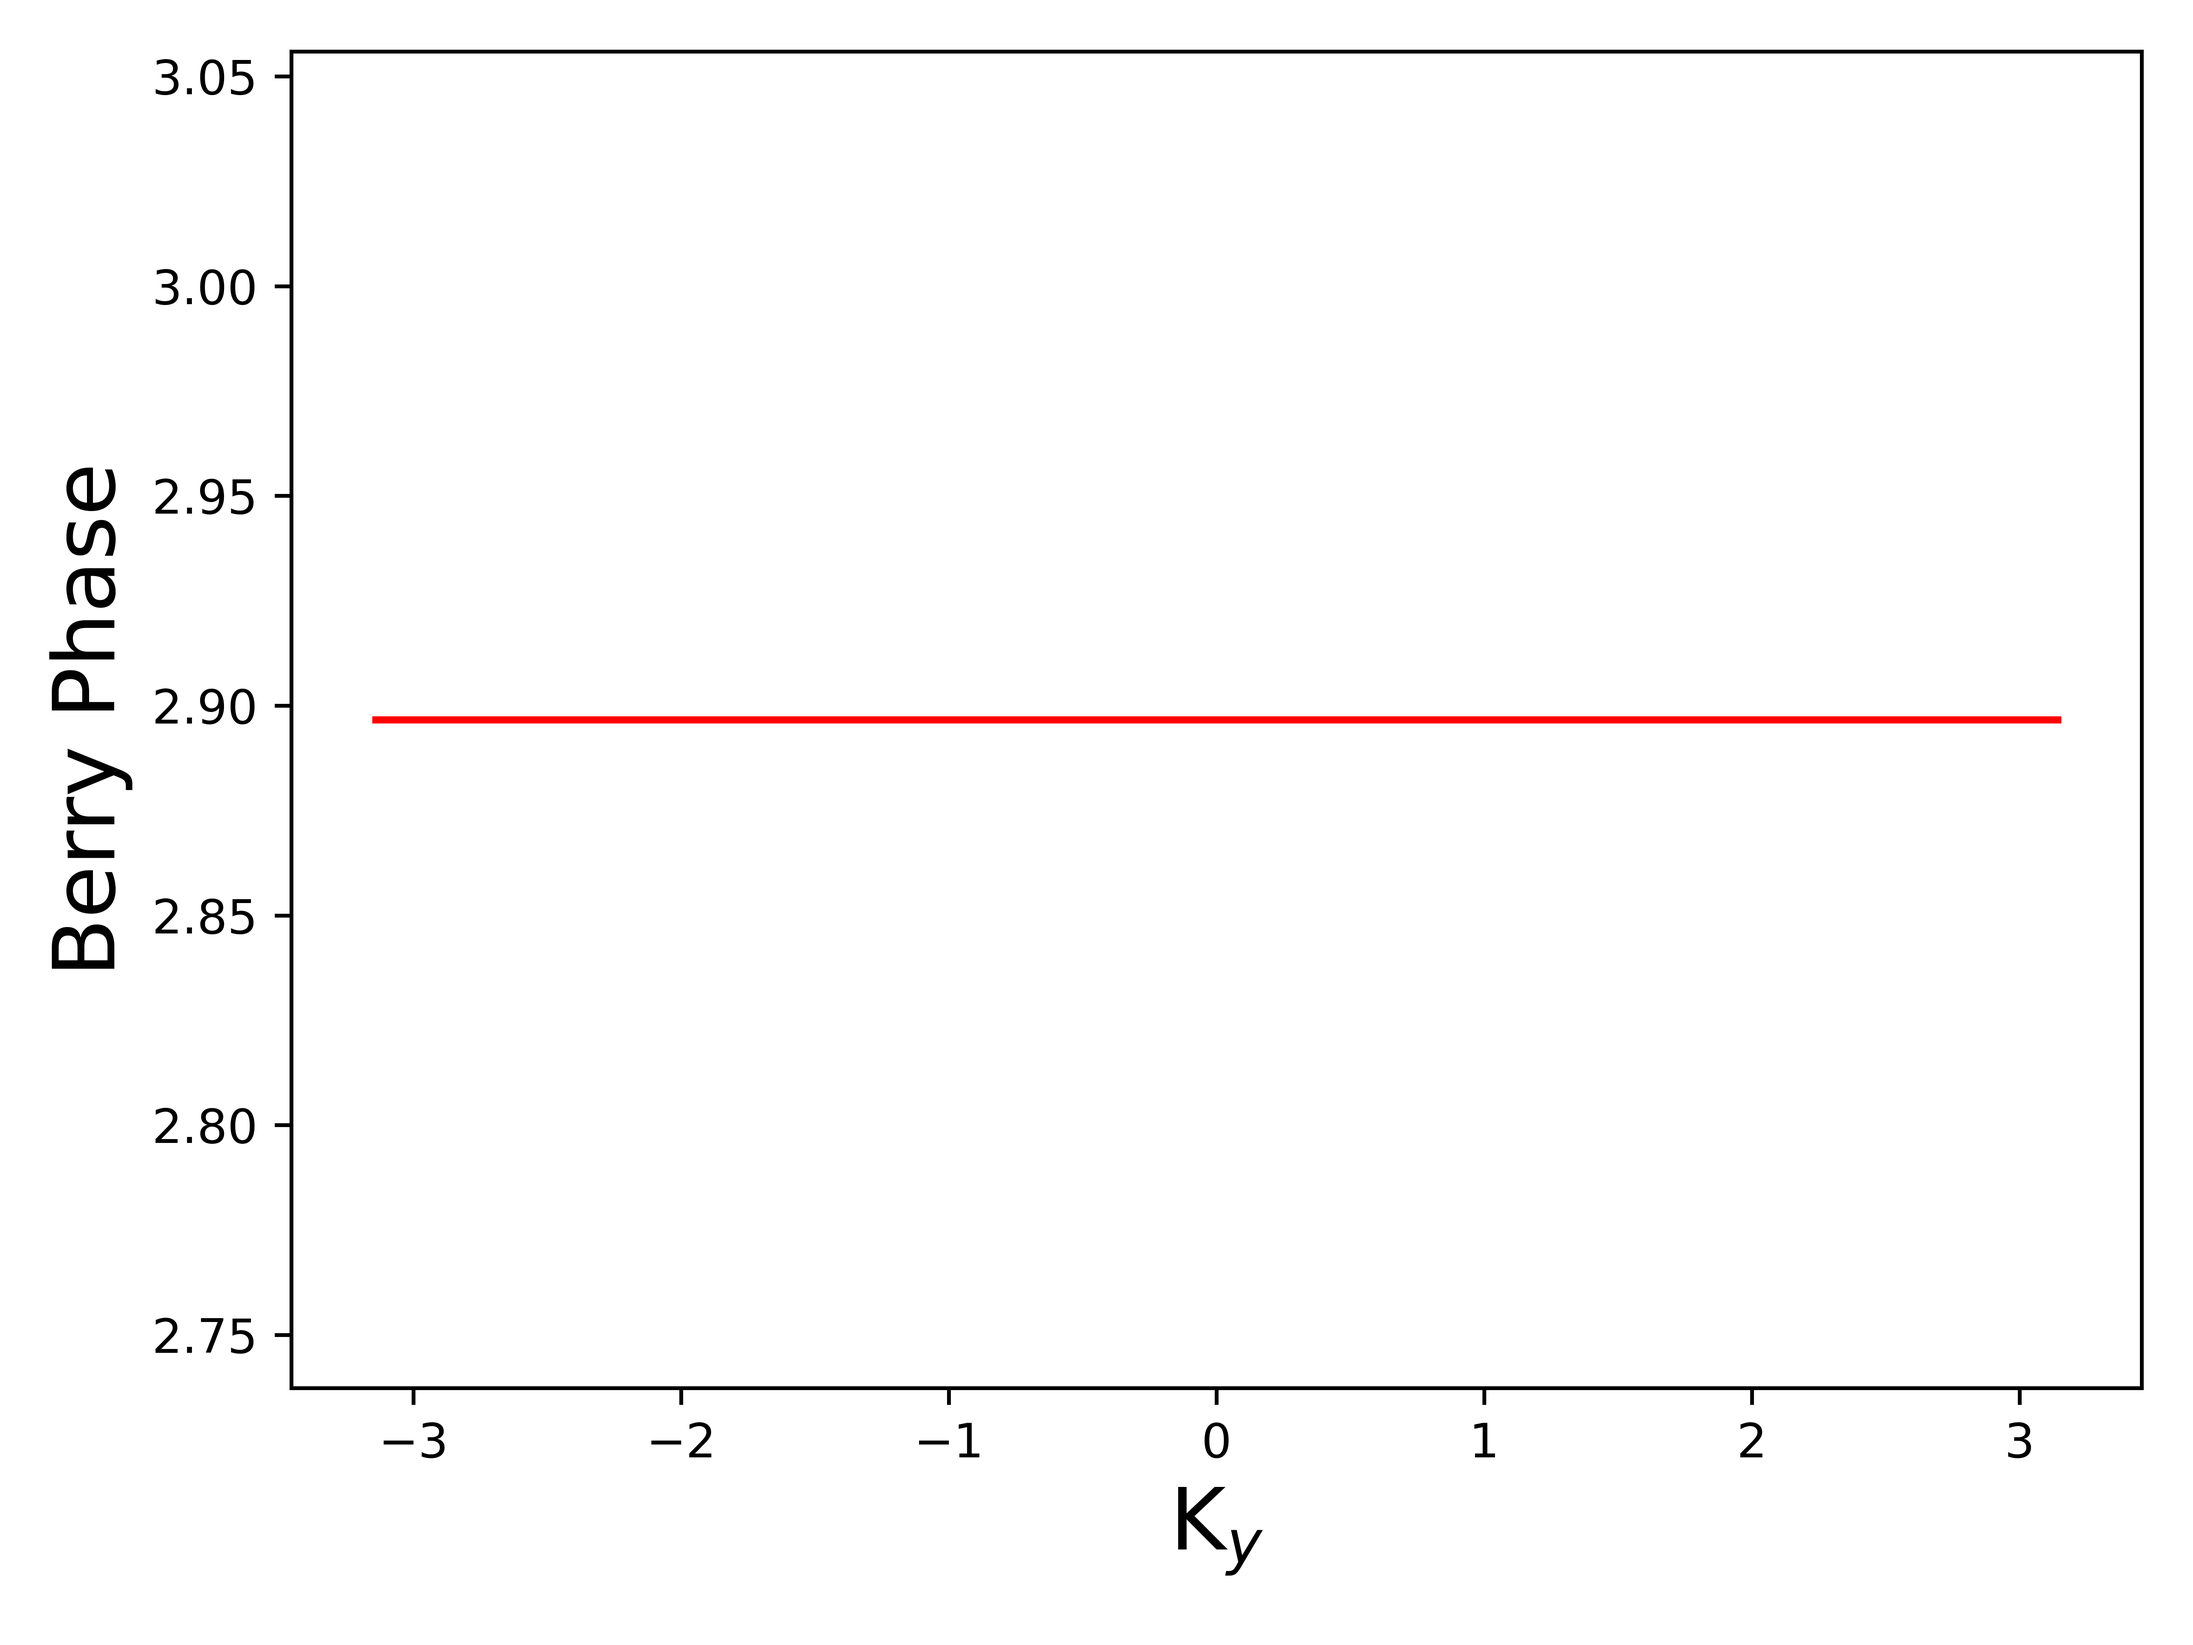
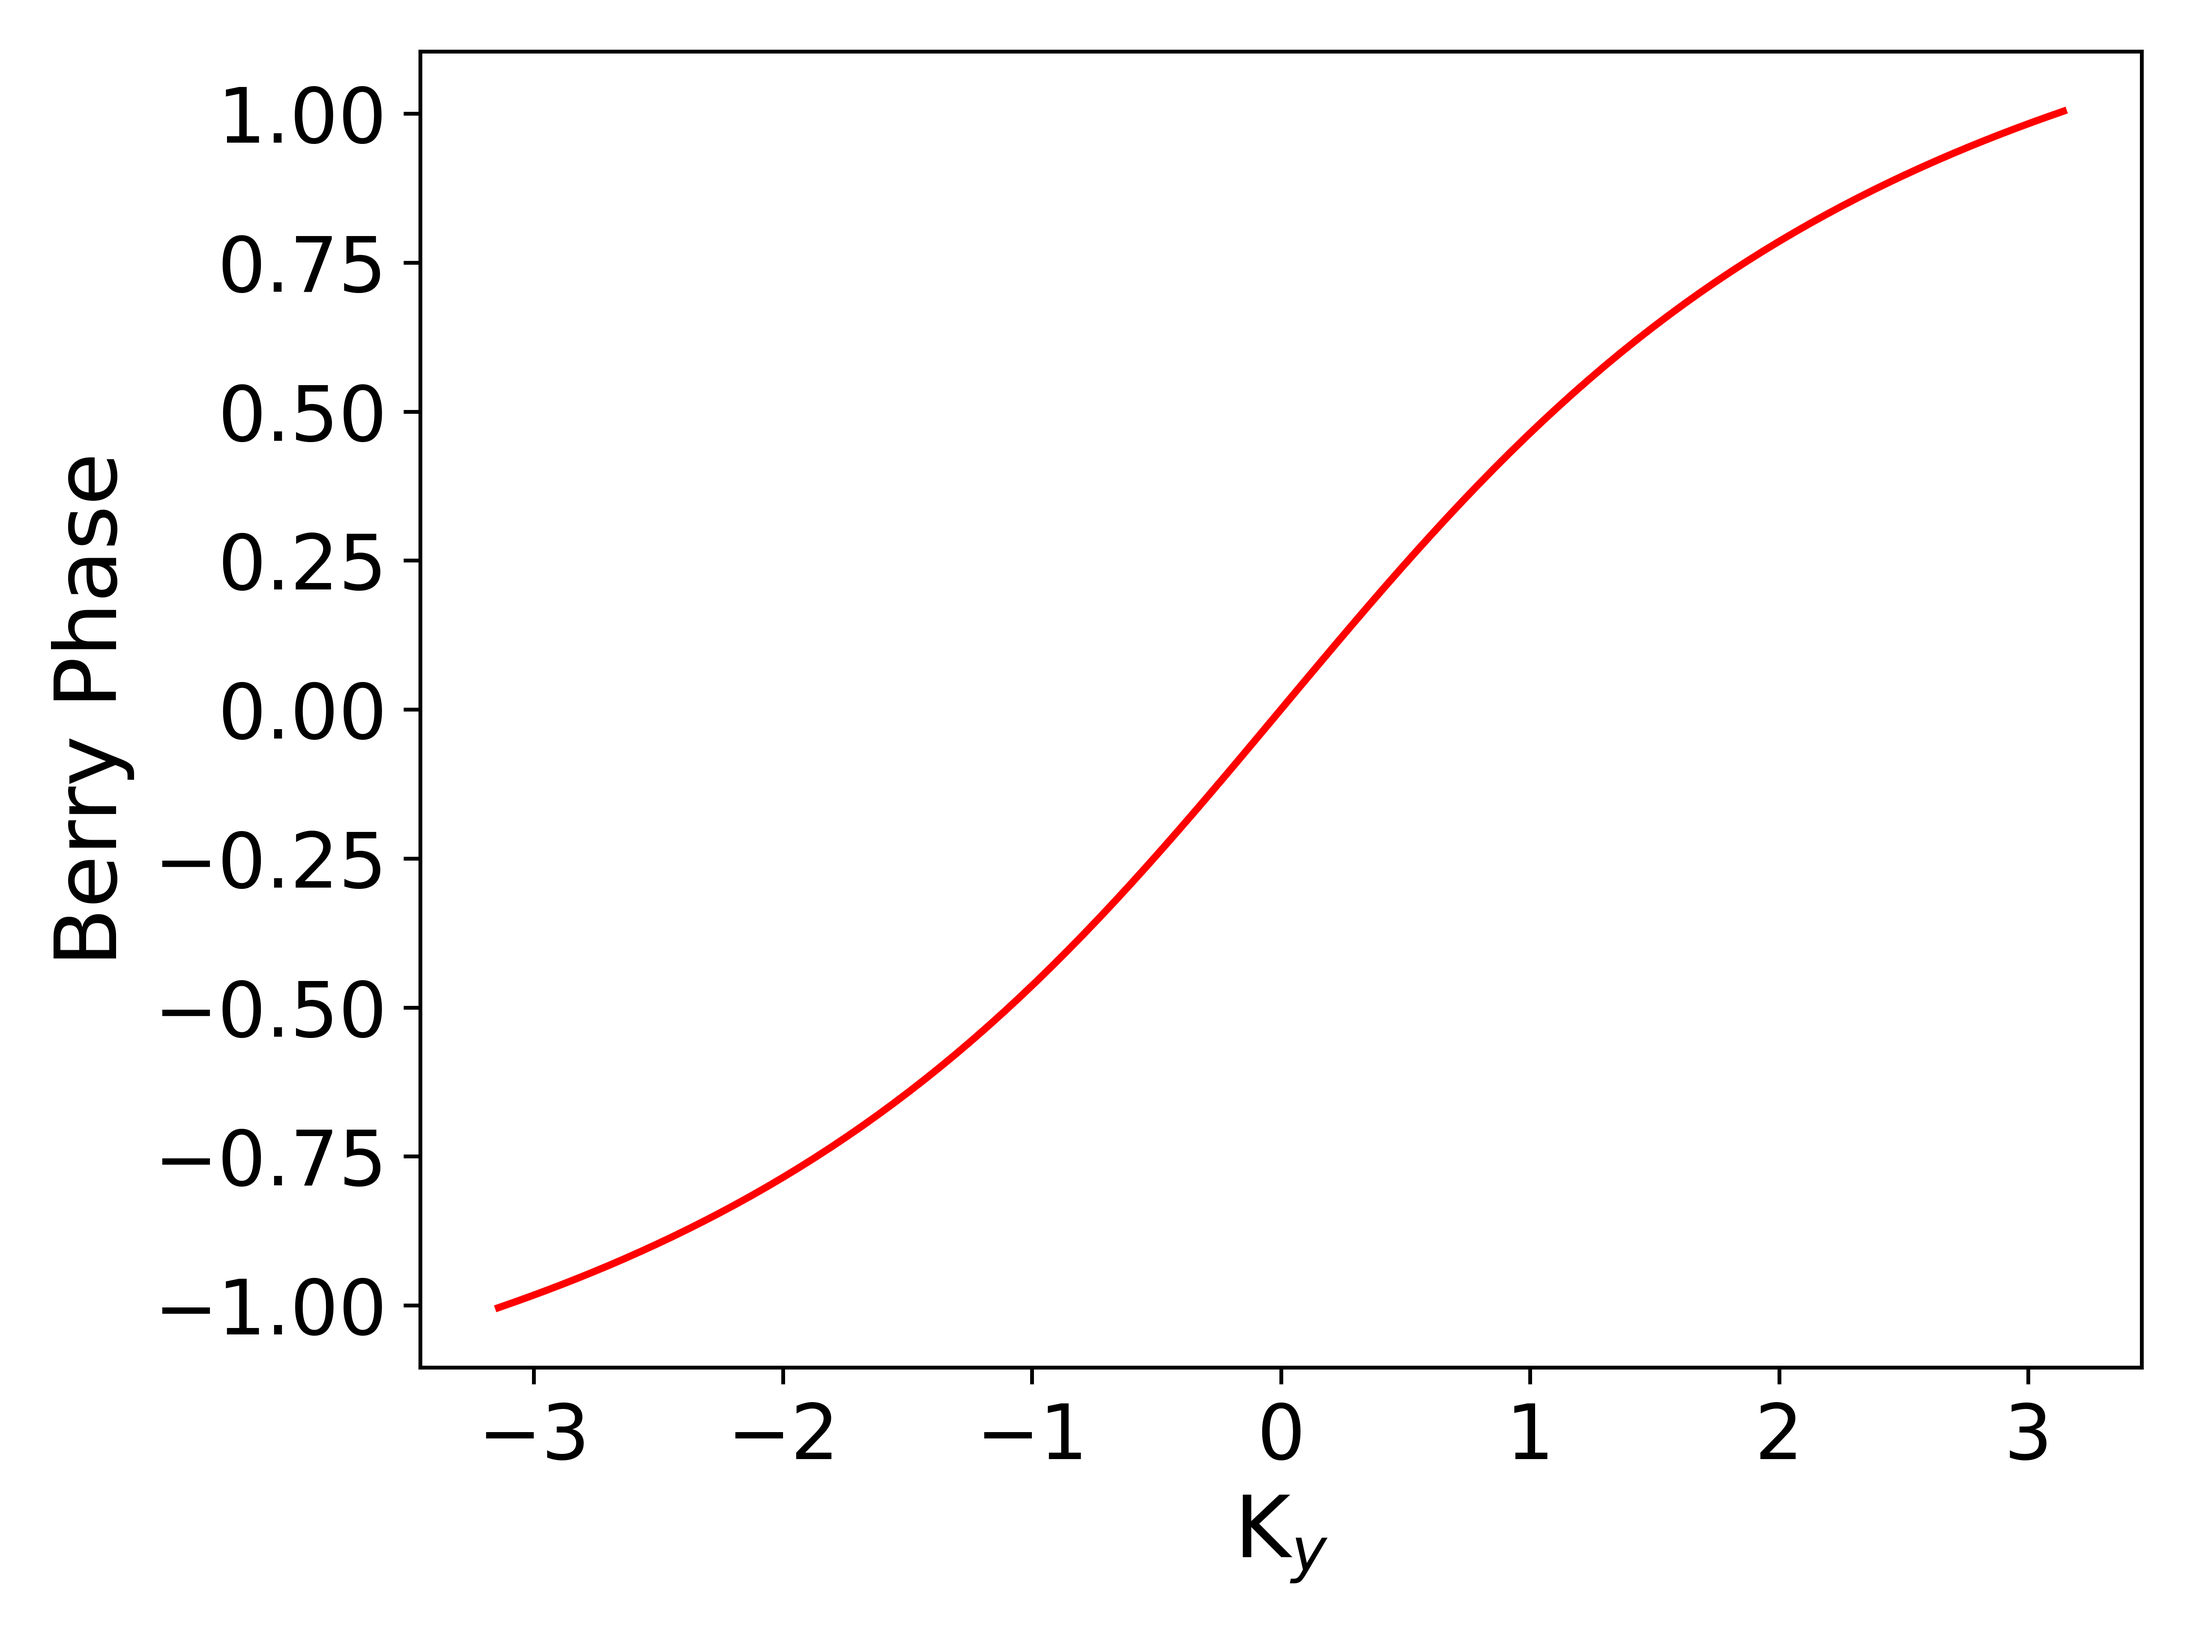
ky fixed

diff --git a/qsh_main.py b/qsh_main.py
@@ -2,7 +2,7 @@ import numpy as np
 import matplotlib.pyplot as plt
 
 # Parâmetros da Hamiltoniana
-t = 0.1
+t = 0.5
 M = 1
 
 # Definir a Hamiltoniana
@@ -43,6 +43,8 @@ plt.colorbar(label='Berry Phase')
 
 plt.xlabel('K$_x$', fontsize=18)
 plt.ylabel('K$_y$', fontsize=18)
+plt.xticks(fontsize=16)
+plt.yticks(fontsize=16)
 #plt.title('Berry Phase in Momentum Space')
 plt.tight_layout()
 plt.savefig('berry.png', dpi=800)
@@ -62,24 +64,52 @@ for band in range(num_bands):
     plt.plot(kx_range, energies[:, band], label='Band {}'.format(band + 1))
 plt.xlabel('K$_x$', fontsize=18)
 plt.ylabel('Energy', fontsize=18)
+plt.xticks(fontsize=16)
+plt.yticks(fontsize=16)
 #plt.title('Energy Band Structure')
 plt.legend()
 plt.tight_layout()
 plt.savefig('bands.png', dpi=800)
 
+
+#Transição de Fase Kx fixo+++++++++++++++++++++++++++++++++++++++++++++++++
+
 # Plotar a fase de Berry para kx fixo
-fixed_ky = np.pi / 4
-phases_fixed_ky = np.zeros(num_points)
+fixed_kx = 1
+phases_fixed_kx = np.zeros(num_points)
 
 # Calcular a fase de Berry para kx fixo e ky variando
 for i, ky in enumerate(ky_range):
-    phases_fixed_ky[i] = berry_phase(kx, fixed_ky, t, M)
+    phases_fixed_kx[i] = berry_phase(fixed_kx, ky, t, M)
 
 # Plotar a fase de Berry para kx fixo
 plt.figure()
-plt.plot(ky_range, phases_fixed_ky, color='r')
+plt.plot(ky_range, phases_fixed_kx, color='r')
 plt.xlabel('K$_y$', fontsize=18)
 plt.ylabel('Berry Phase', fontsize=18)
-#plt.title('Berry Phase for Fixed Ky')
+plt.xticks(fontsize=16)
+plt.yticks(fontsize=16)
+#plt.title('Berry Phase for Fixed K$_x$')
 plt.tight_layout()
-plt.savefig('just_k.png', dpi=800)
+plt.savefig('kx_fixed.png', dpi=800)
+
+#Transição de Fase Ky fixo+++++++++++++++++++++++++++++++++++++++++++++++++
+
+# Plotar a fase de Berry para ky fixo
+fixed_ky = 1
+phases_fixed_ky = np.zeros(num_points)
+
+# Calcular a fase de Berry para kx fixo e ky variando
+for i, kx in enumerate(kx_range):
+    phases_fixed_ky[i] = berry_phase(kx, fixed_ky, t, M)
+
+# Plotar a fase de Berry para ky fixo
+plt.figure()
+plt.plot(kx_range, phases_fixed_ky, color='r')
+plt.xlabel('K$_x$', fontsize=18)
+plt.ylabel('Berry Phase', fontsize=18)
+plt.xticks(fontsize=16)
+plt.yticks(fontsize=16)
+#plt.title('Berry Phase for Fixed K$_x$')
+plt.tight_layout()
+plt.savefig('ky_fixed.png', dpi=800)
